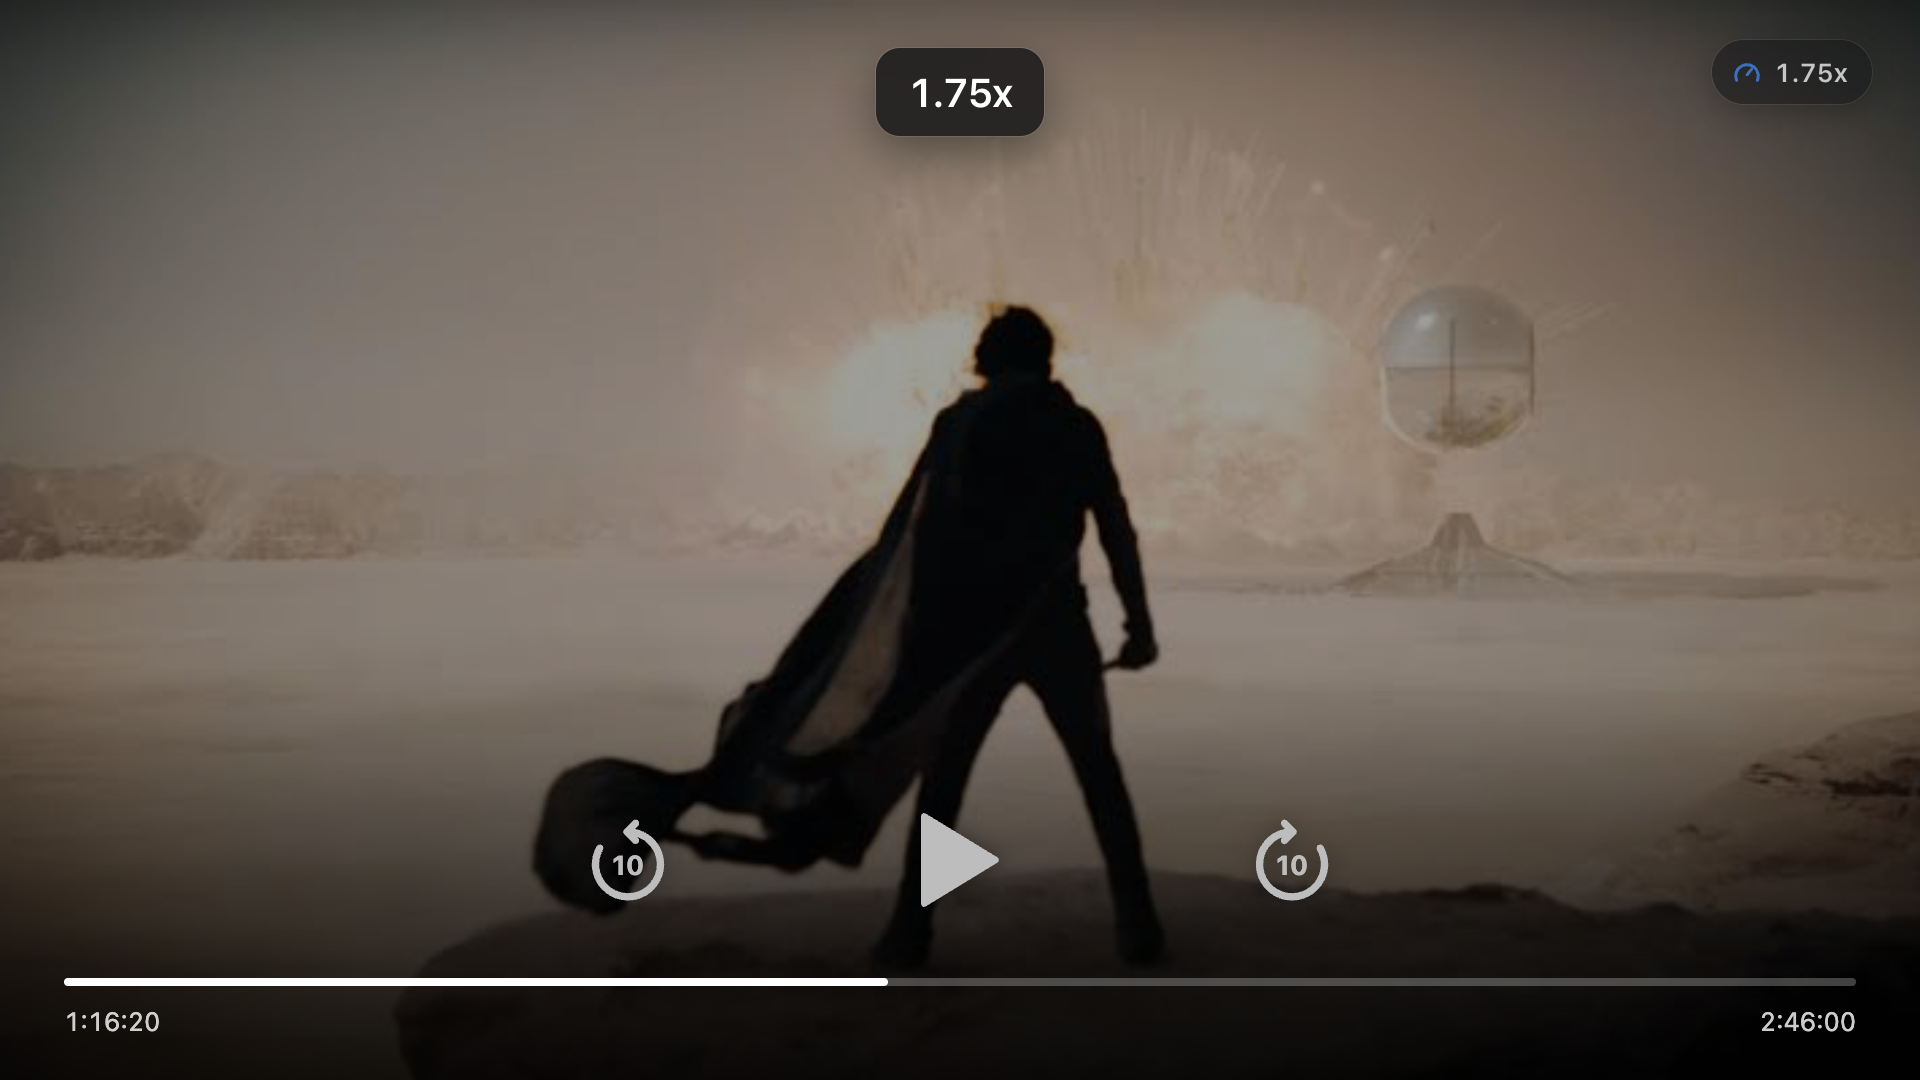
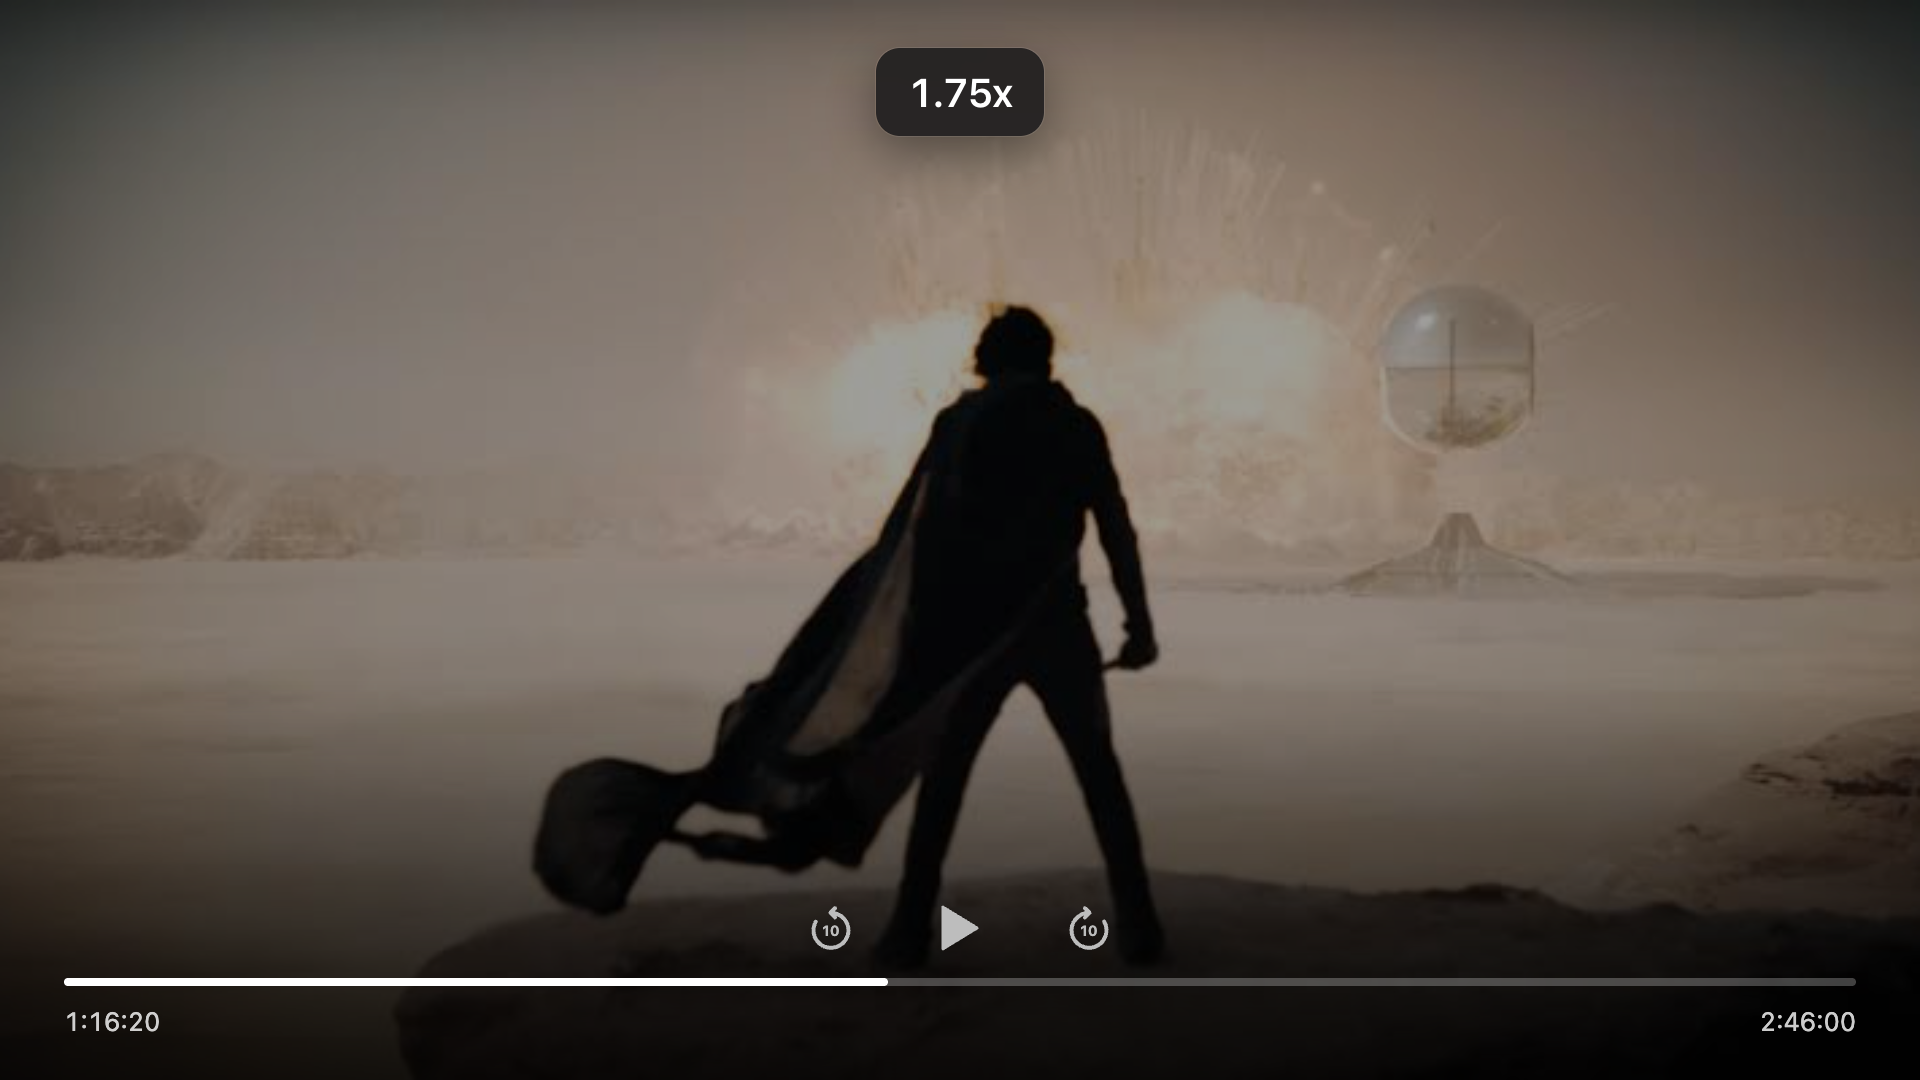
docs: make the player controls small and centred above the progress bar

diff --git a/scripts/screenshots/overlay.html b/scripts/screenshots/overlay.html
@@ -8,7 +8,7 @@
       html, body { margin: 0; height: 100%; overflow: hidden; font: 13px -apple-system, BlinkMacSystemFont, system-ui, sans-serif; }
       body { background: #000 url(still.jpg) center / cover no-repeat; }
       .scrim { position: fixed; inset: 0; background: rgba(0, 0, 0, 0.38); }
-      .center { position: fixed; left: 50%; bottom: 84px; transform: translateX(-50%); z-index: 1; display: flex; align-items: center; gap: 118px; color: #bdbdbd; filter: drop-shadow(0 1px 6px rgba(0,0,0,.45)); }
+      .center { position: fixed; left: 50%; bottom: 62px; transform: translateX(-50%); z-index: 1; display: flex; align-items: center; gap: 40px; color: #bdbdbd; filter: drop-shadow(0 1px 6px rgba(0,0,0,.45)); }
       .center svg { display: block; }
       .controls { position: fixed; left: 0; right: 0; bottom: 0; padding: 150px 32px 22px; background: linear-gradient(transparent, rgba(0,0,0,.75)); color: #fff; }
       .bar { height: 4px; border-radius: 2px; background: rgba(255,255,255,.25); }
@@ -18,7 +18,7 @@
   </head>
   <body>
     <div class="scrim"></div>
-    <div class="center"><svg width="52" height="52" viewBox="0 0 48 48" aria-label="Back 10 seconds"><path d="M24 11A15 15 0 1 1 11 18.5" fill="none" stroke="currentColor" stroke-width="3.4" stroke-linecap="round"/><path d="M27.5 7L23.5 11L27.5 15" fill="none" stroke="currentColor" stroke-width="3.4" stroke-linecap="round" stroke-linejoin="round"/><text x="24" y="31" text-anchor="middle" font-size="12.5" font-weight="700" fill="currentColor" font-family="-apple-system, BlinkMacSystemFont, system-ui, sans-serif">10</text></svg><svg width="44" height="52" viewBox="0 0 44 52" aria-label="Play"><path d="M4 4L40 26L4 48Z" fill="currentColor" stroke="currentColor" stroke-width="3" stroke-linejoin="round"/></svg><svg width="52" height="52" viewBox="0 0 48 48" aria-label="Forward 10 seconds"><path d="M24 11A15 15 0 1 0 37 18.5" fill="none" stroke="currentColor" stroke-width="3.4" stroke-linecap="round"/><path d="M20.5 7L24.5 11L20.5 15" fill="none" stroke="currentColor" stroke-width="3.4" stroke-linecap="round" stroke-linejoin="round"/><text x="24" y="31" text-anchor="middle" font-size="12.5" font-weight="700" fill="currentColor" font-family="-apple-system, BlinkMacSystemFont, system-ui, sans-serif">10</text></svg></div>
+    <div class="center"><svg width="28" height="28" viewBox="0 0 48 48" aria-label="Back 10 seconds"><path d="M24 11A15 15 0 1 1 11 18.5" fill="none" stroke="currentColor" stroke-width="3.4" stroke-linecap="round"/><path d="M27.5 7L23.5 11L27.5 15" fill="none" stroke="currentColor" stroke-width="3.4" stroke-linecap="round" stroke-linejoin="round"/><text x="24" y="31" text-anchor="middle" font-size="12.5" font-weight="700" fill="currentColor" font-family="-apple-system, BlinkMacSystemFont, system-ui, sans-serif">10</text></svg><svg width="21" height="25" viewBox="0 0 44 52" aria-label="Play"><path d="M4 4L40 26L4 48Z" fill="currentColor" stroke="currentColor" stroke-width="3" stroke-linejoin="round"/></svg><svg width="28" height="28" viewBox="0 0 48 48" aria-label="Forward 10 seconds"><path d="M24 11A15 15 0 1 0 37 18.5" fill="none" stroke="currentColor" stroke-width="3.4" stroke-linecap="round"/><path d="M20.5 7L24.5 11L20.5 15" fill="none" stroke="currentColor" stroke-width="3.4" stroke-linecap="round" stroke-linejoin="round"/><text x="24" y="31" text-anchor="middle" font-size="12.5" font-weight="700" fill="currentColor" font-family="-apple-system, BlinkMacSystemFont, system-ui, sans-serif">10</text></svg></div>
     <div class="controls"><div class="bar"><i></i></div><div class="time"><span>1:16:20</span><span>2:46:00</span></div></div>
     <script src="/src/shared/speed-utils.js"></script>
     <script src="/src/content/overlay-ui.js"></script>
